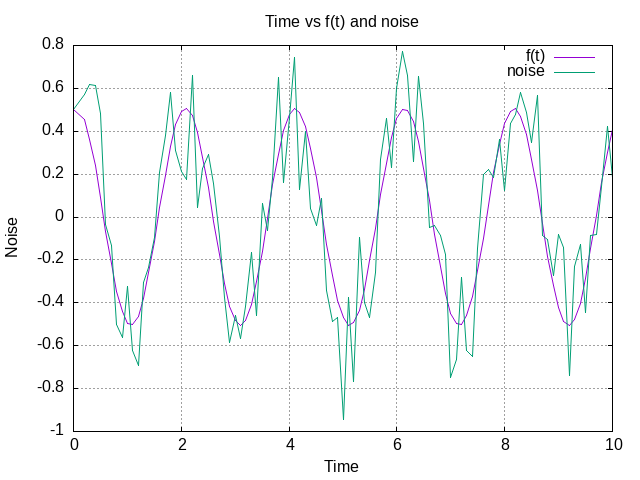
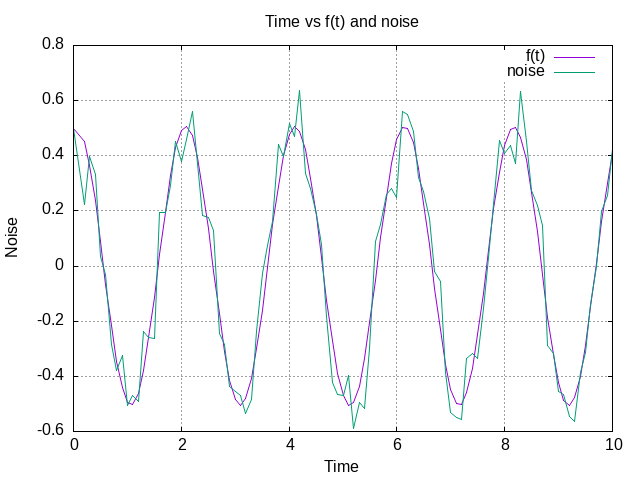
Cholesky Decomposition used to get proper noise

diff --git a/simulator.cpp b/simulator.cpp
@@ -32,26 +32,73 @@ public:
 
 };
 
+
+
+
+class RandomVector {
+public:
+  
+  float m1_, m2_, v1_, c12_, v2_;
+
+  RandomVector(float m1, float m2, float v1, float c12, float v2) {
+    m1_ = m1;
+    m2_ = m2;
+    v1_ = v1;
+    v2_ = v2;
+    c12_ = c12;
+  }
+
+  
+  float l11, l22, l12;
+
+
+  float x, y;
+
+  void set_vector() {
+    // Cholesky Decompositinn
+    l11 = sqrt(v1_);
+    l12 = c12_ / l11;
+
+    if (v2_ - l12*l12 < 0) throw -1;
+
+    l22 = sqrt(v2_ - l12*l12);
+
+    float z1, z2;
+
+    // Define random generator with Gaussian distribution
+    unsigned seed = std::chrono::system_clock::now().time_since_epoch().count();   
+    std::default_random_engine generator(seed);
+    std::normal_distribution<double> dist(0.0, 1.0);
+
+    z1 = dist(generator);
+    z2 = dist(generator);
+
+
+    x = l11*z1;
+    y = l12*z1 + l22*z2;
+
+    x+= m1_;
+    y+= m2_;
+  }
+  
+};
+
+
+
 class Sensor {
 public:
   float th;
   float w;
-  const double mean;
-  const double stddev; 
-
-  Sensor(double sd): mean(0.0), stddev(sd) {
-    
-  }
+  Sensor(): th(0), w(0) {}
 
   void set_data(Pendulum &p) {
-     // random number, gaussian noise
-    unsigned seed = std::chrono::system_clock::now().time_since_epoch().count();   // Define random generator with Gaussian distribution
-    std::default_random_engine generator(seed);
-    std::normal_distribution<double> dist(mean, stddev);
 
-    th = p.th + dist(generator);
-    w = p.w + dist(generator);
-    
+    RandomVector R(0.0, 0.0, 0.01, 0.01, 0.09);
+    R.set_vector();
+
+
+    th = p.th + R.x;
+    w = p.w + R.y;
   }
 };
 
@@ -69,7 +116,7 @@ std::ostream &operator<<(std::ostream &os, Sensor s) {
 
 int main() {
   Pendulum P;
-  Sensor S(0.2);
+  Sensor S;
 
   std::cout << P ;
 
@@ -81,21 +128,4 @@ int main() {
   }
 
 }
-
-
-
-
-
-
-
-
-
-
-
-
-
-
-
-
-
 
